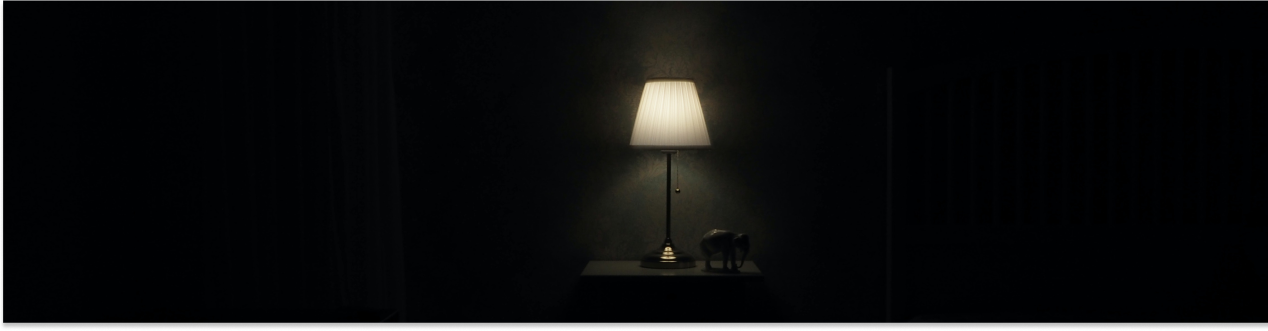
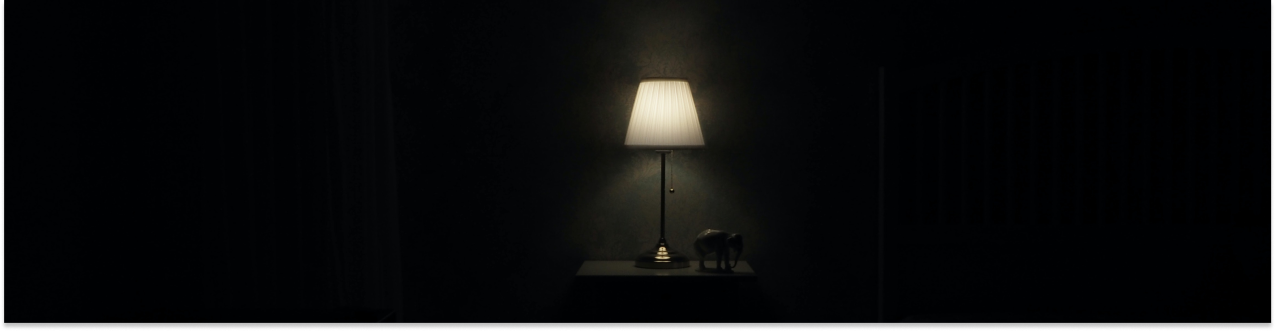
624

diff --git a/css/products.css b/css/products.css
@@ -3,8 +3,8 @@
     position: relative;
 } */
 body{
-    max-width: 1280px;
-    margin: 0 auto;
+    /* max-width: 1280px; */
+    /* margin: 0 auto; */
     background-color: #1F1928;
     font-family:Arial, Helvetica, sans-serif;
     
@@ -19,10 +19,10 @@ body{
 /* <!-- 最上header --> */
 
 header{
-    height: 110px;
+    height: 60px;
     display: flex;
     justify-content: space-between;
-    /* padding: 20px; */
+    padding: 20px;
     align-items: center;
     background-color:#1F1928 ;
     position: relative;
@@ -30,6 +30,8 @@ header{
     position:sticky;
     top:0;
     z-index: 1;
+    /* width: 100%; */
+
     
     
 }
@@ -126,6 +128,28 @@ header{
 
 .login{
     padding-right: 60px;
+    
+}
+
+.login{
+    padding-right: 60px;
+    margin-left: 10px;
+    margin-top: 10px;
+}
+
+
+.products{
+    margin: 0 auto;
+    
+}
+
+.products img{
+    width: 100%;
+   
+
+}
+
+.breadcrumbs{
     margin-left: 10px;
     margin-top: 10px;
 }
@@ -134,6 +158,7 @@ header{
     display: flex ;
     column-gap: 10px;
     margin-bottom: 20px;
+
 } 
 
 .breadcrumbs a{
@@ -143,8 +168,10 @@ header{
 
 }
 
+/* 中間 */
+
 .banner{
-    width: 1280px; 
+    width: 80%;
     margin: 0 auto;
    margin-bottom: 40px;
 
@@ -324,11 +351,11 @@ header{
 /* <!-- 最下面footer --> */   
 
 footer{
-    background-color: #2B252F;
+   
     /* width: 1280px; */
     /* height: 250px; */
     color: #D9D9D9;
-    padding-top: 30px;
+    padding-top: 50px;
     margin-top: 30px;
     /* position: absolute; */
 
@@ -349,7 +376,7 @@ footer{
 .footer-content p{
     font-size: 16px;
     max-width: 500px;
-    line-height: 1.5rem;
+    line-height: 1.3rem;
     margin: 10px auto;
 }
 
@@ -365,7 +392,7 @@ footer{
 }
 
 .footer-bottom{
-    width: 1280px;
+    /* width: 1280px; */
     justify-content: center;
 
 }

diff --git a/products.html b/products.html
@@ -49,7 +49,7 @@
 
     <!-- 上方圖片-->
     <div class="products">
-        <img src="./img/prodpic.png" alt="">
+        <img src="./img/prodpic2.jpg" alt="">
     </div>
 
     <!-- 右下角麵包屑 -->
@@ -214,11 +214,7 @@
     <div class="footer-bottom">
         <p>本網站為緯育TibaMe【第85期】前端工程師專業技術養成班學員作品,僅供學習、展示之用途。<br>參考資源:  Loop迴圈密室逃脫, 神不在場, enterspace</p>
     </div>
-
 </div>
 </footer>
-
-
-    
 </body>
 </html>
